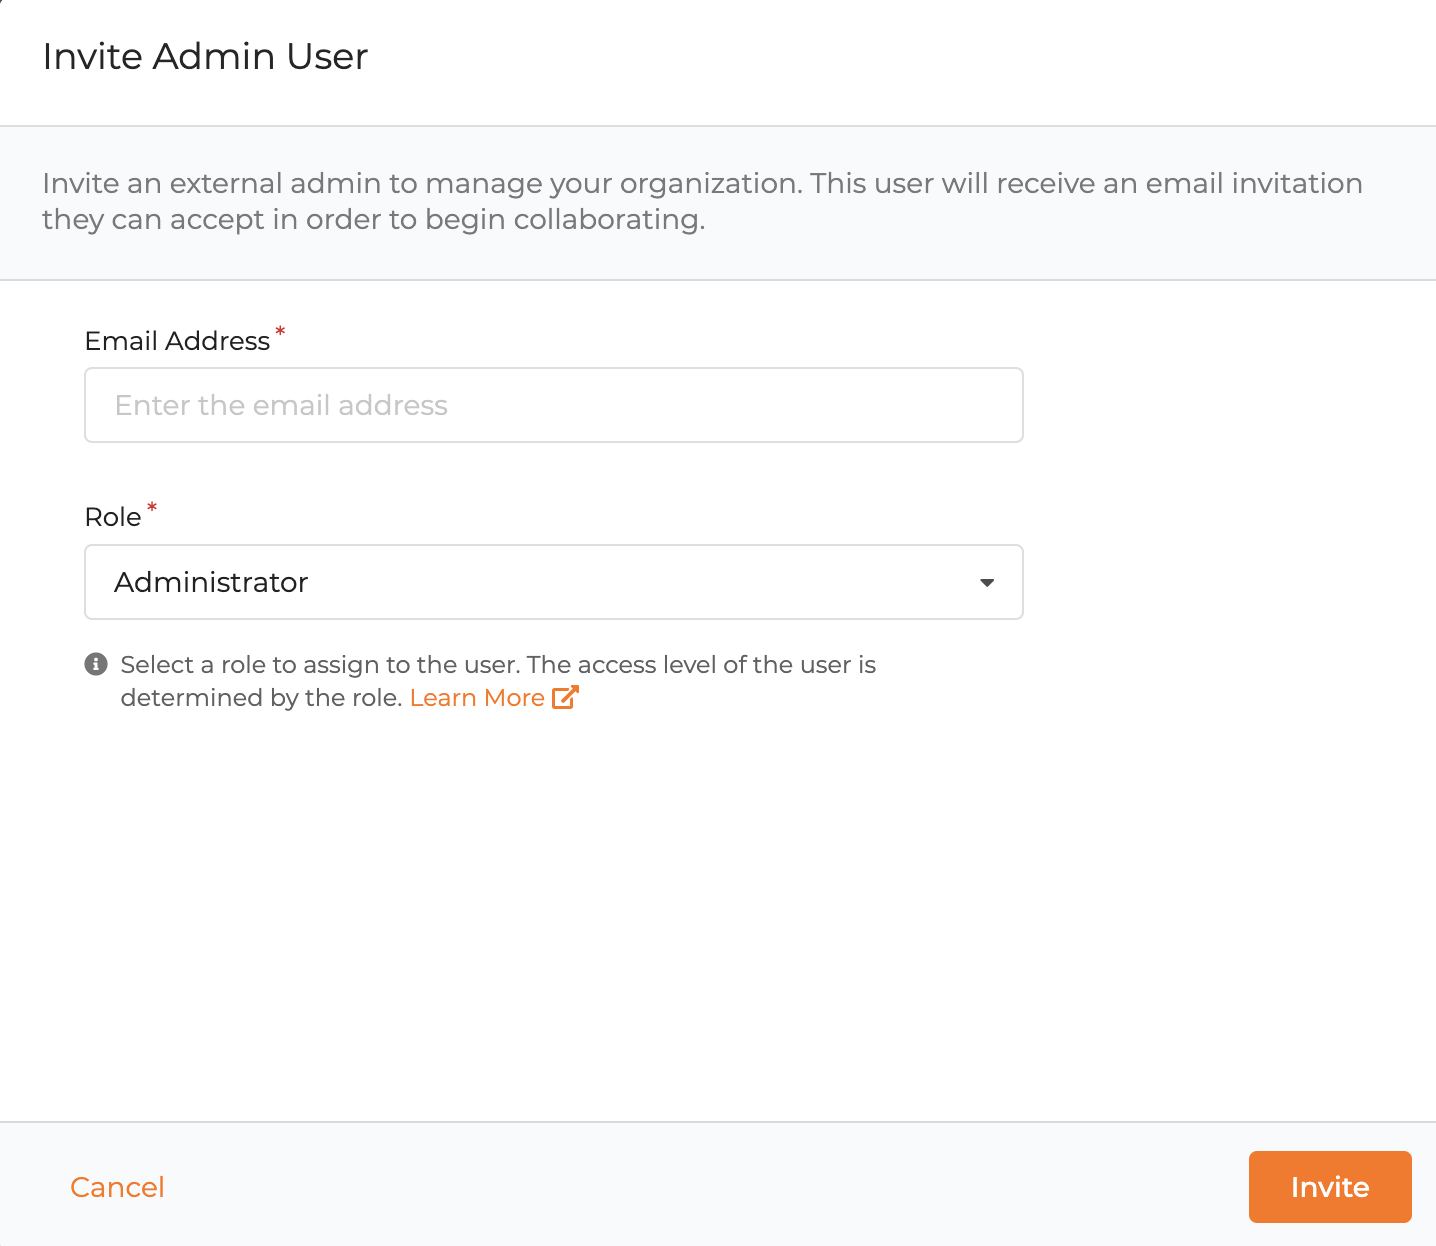
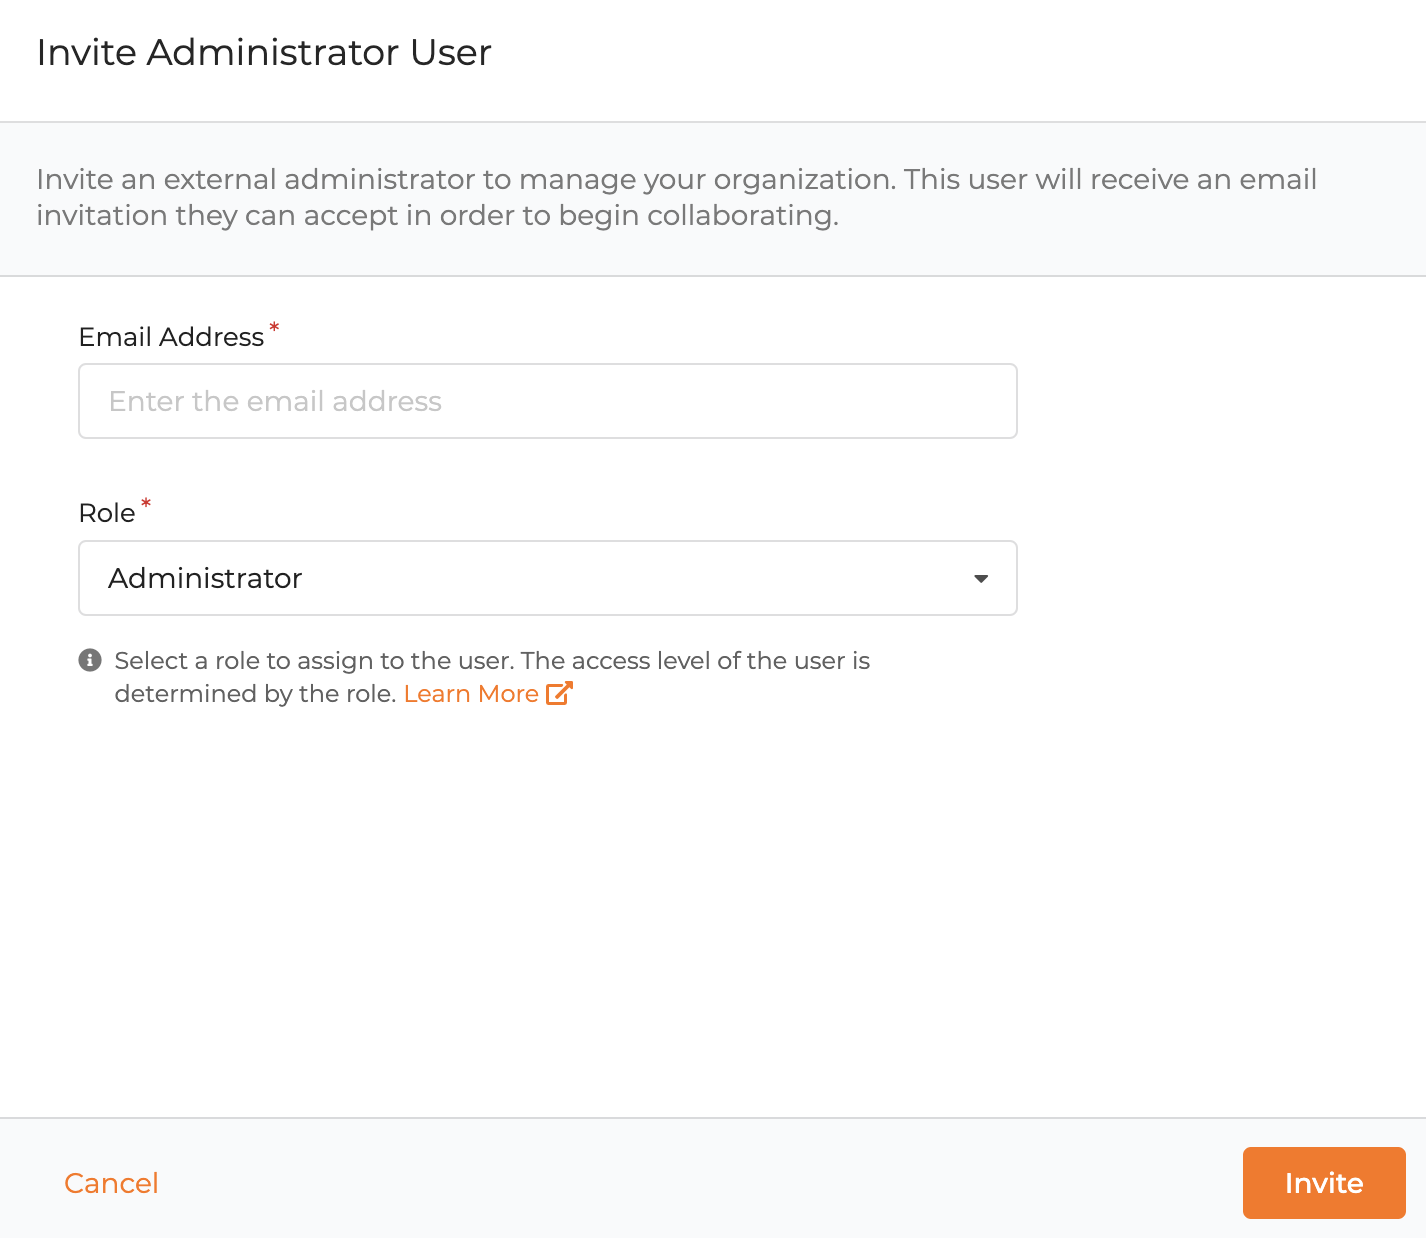
Fix commit suggestions

diff --git a/docs/guides/users/manage-customers.md b/docs/guides/users/manage-customers.md
@@ -1,16 +1,16 @@
 # Manage users
 
-This guide walks you through the process of managing a user account. An owner or an administrator with administrative privilege can manage user accounts.
+This guide walks you through the process of managing a user account. An owner or an administrator can manage user accounts.
 
 ## Onboard a user
 There are two ways to onboard a user:
 - The user can self-register via My Account or a business application if **Self-Registration** is enabled in the organization. Learn about <a :href="$withBase('/guides/user-self-service/self-register/')">user self-registration</a>.
 - An administrator can invite the user.
 
-Let's look at how administrator can onboard users from the Asgardeo console.
+Let's look at how administrators can onboard users from the Asgardeo console.
 
 1. On the Asgardeo console, click **Manage > Users**.
-2. Click  **New User** button.
+2. Click  **New User**.
 3. Provide the following details:
     <img :src="$withBase('/assets/img/guides/users/add-user-form.png')" width="500" alt="Add user">
     - **Email (Username):** A unique email address to identify the user. 
@@ -25,7 +25,7 @@ Let's look at how administrator can onboard users from the Asgardeo console.
             If this option is selected, an email with a confirmation link will be sent to the provided email (username). The user can use the confirmation link to set a new password and to confirm the new account.  
       - **Set a temporary password for the user:**
             If this option is selected, the administrator can set a temporary password for the user.              
-4. Click **Next**. (This option will only appear if your organization already have created groups. Otherwise, click **Finish**.)
+4. Click **Next**. (This option will only appear if your organization has created any groups. Otherwise, click **Finish**.)
 5.  If required, you can assign the user to some groups. 
 6. Click **Finish**.
      
@@ -81,7 +81,7 @@ To reset the password:
    - **Invite user to set their own password:**  
     If this option is selected, a password reset request can be sent to the user via email. The user can then use the instructions in the email to reset the password.  
    - **Set a temporary password for the user:**  
-   If this option is selected, the owner/administrator can set a temporary password for the user.
+   If this option is selected, the owner or an administrator can set a temporary password for the user.
    <img :src="$withBase('/assets/img/guides/users/reset-password-of-user.png')" alt="Reset password" width="500">
 3. Click **Reset Password**.
 

diff --git a/docs/guides/your-asgardeo/delete-your-user-account.md b/docs/guides/your-asgardeo/delete-your-user-account.md
@@ -10,7 +10,7 @@ To delete your owner account(s), you need to <a :href="$withBase('/guides/your-a
 
 ## Administrators 
 
-If you want to remove your administrator user account from an organization, you need to send a request to another administrator in the organization. See the instruction on <a :href="$withBase('/guides/users/manage-collaborators/#delete-a-collaborator')">deleting administrators</a>.
+If you want to remove your administrator account from an organization, you need to send a request to another administrator in the organization. See the instruction on <a :href="$withBase('/guides/users/manage-collaborators/#delete-a-collaborator')">deleting administrators</a>.
 
 ::: info
 Note that removing your administrator account from one organization only removes your association with that organization. Your administrator account will continue to persist in other organizations that you are associated with.

diff --git a/docs/guides/users/manage-collaborators.md b/docs/guides/users/manage-collaborators.md
@@ -13,7 +13,7 @@ Administrators can onboard another administrator by sending an email invitation.
 To onboard an administrator:
 
 1. On the Asgardeo console, click **Manage > Administrators**.
-2. Click **New Administrator** button.
+2. Click **New Administrator**.
 4. Provide the email address of the administrator and click **Invite**.
 
     ::: warning
@@ -30,7 +30,7 @@ For details on the available user roles and the permissions assigned to them, se
 
 ## Delete an administrator
 
-An administrator account can be deleted by administrator. Once an account is deleted, the action is irreversible. 
+An administrator account can be deleted by administrators. Once an account is deleted, the action is irreversible.
 
 To delete an administrator account:
 1. On the Asgardeo console, click **Manage > Administrators**.

diff --git a/docs/guides/users/README.md b/docs/guides/users/README.md
@@ -36,7 +36,7 @@ An owner is always assigned the **Administrator** role. It cannot be changed by 
 
 ### Administrator 
 
-An administrator is a user who can manage the organization and has access to the organization’s administrative operations. An administrator can be invited to the organization and assigned with the Administrator <a :href="$withBase('/references/user-management/user-roles/')">user role</a>.
+An administrator can manage the organization and has access to the organization’s administrative operations. An administrator can be invited to the organization and assigned with the Administrator <a :href="$withBase('/references/user-management/user-roles/')">user role</a>.
 
 Refer <a :href="$withBase('/guides/users/manage-collaborators/')">Managing administrators</a> for more information. 
 

diff --git a/docs/get-started/create-asgardeo-account.md b/docs/get-started/create-asgardeo-account.md
@@ -41,7 +41,7 @@ See the <a :href="$withBase('/guides/')">guides</a> to learn more.
 Let's start by adding the first user to your organization.
 
 1. On the Asgardeo console, click **Manage > Users**.
-2. Click **New User** button.
+2. Click **New User**.
 3. Fill in the user's details.
     <img :src="$withBase('/assets/img/guides/get-started/create-customer-account.png')" alt="customer-account-create-ui">
 4. Select **Set a temporary password for the user** and enter a temporary password for the user. The user will be able to change the password later.

diff --git a/docs/guides/fragments/self-service/manage-consents.md b/docs/guides/fragments/self-service/manage-consents.md
@@ -12,5 +12,4 @@ Given below are the steps to follow.
     - Clear the attributes individually and click **Update**. This removes access to the unselected user attributes for the given application.
     - Click **Revoke** to revoke all the user attributes shared with that application.
 
-If consent is revoked for a user attribute, the user will be prompted with consent in the next login attempt to that application.
-
+If consent is revoked for a user attribute, the user will be prompted for consent in the next login attempt to that application.

diff --git a/docs/guides/authentication/manage-consent-for-attributes.md b/docs/guides/authentication/manage-consent-for-attributes.md
@@ -6,7 +6,7 @@ In Asgardeo, you can either display a screen to request consent for user attribu
 
 ## Get consent for user attributes
 
-Once the user is logged in, Asgardeo requests consent from the user to share their attributes with the application. 
+Once the user is logged in, Asgardeo requests consent to share the user's attributes with the application. 
 
 <img :src="$withBase('/assets/img/guides/applications/attributes/oidc/provide-consent.png')" width="400" alt="Provides consent for attributes in Asgardeo">
 
